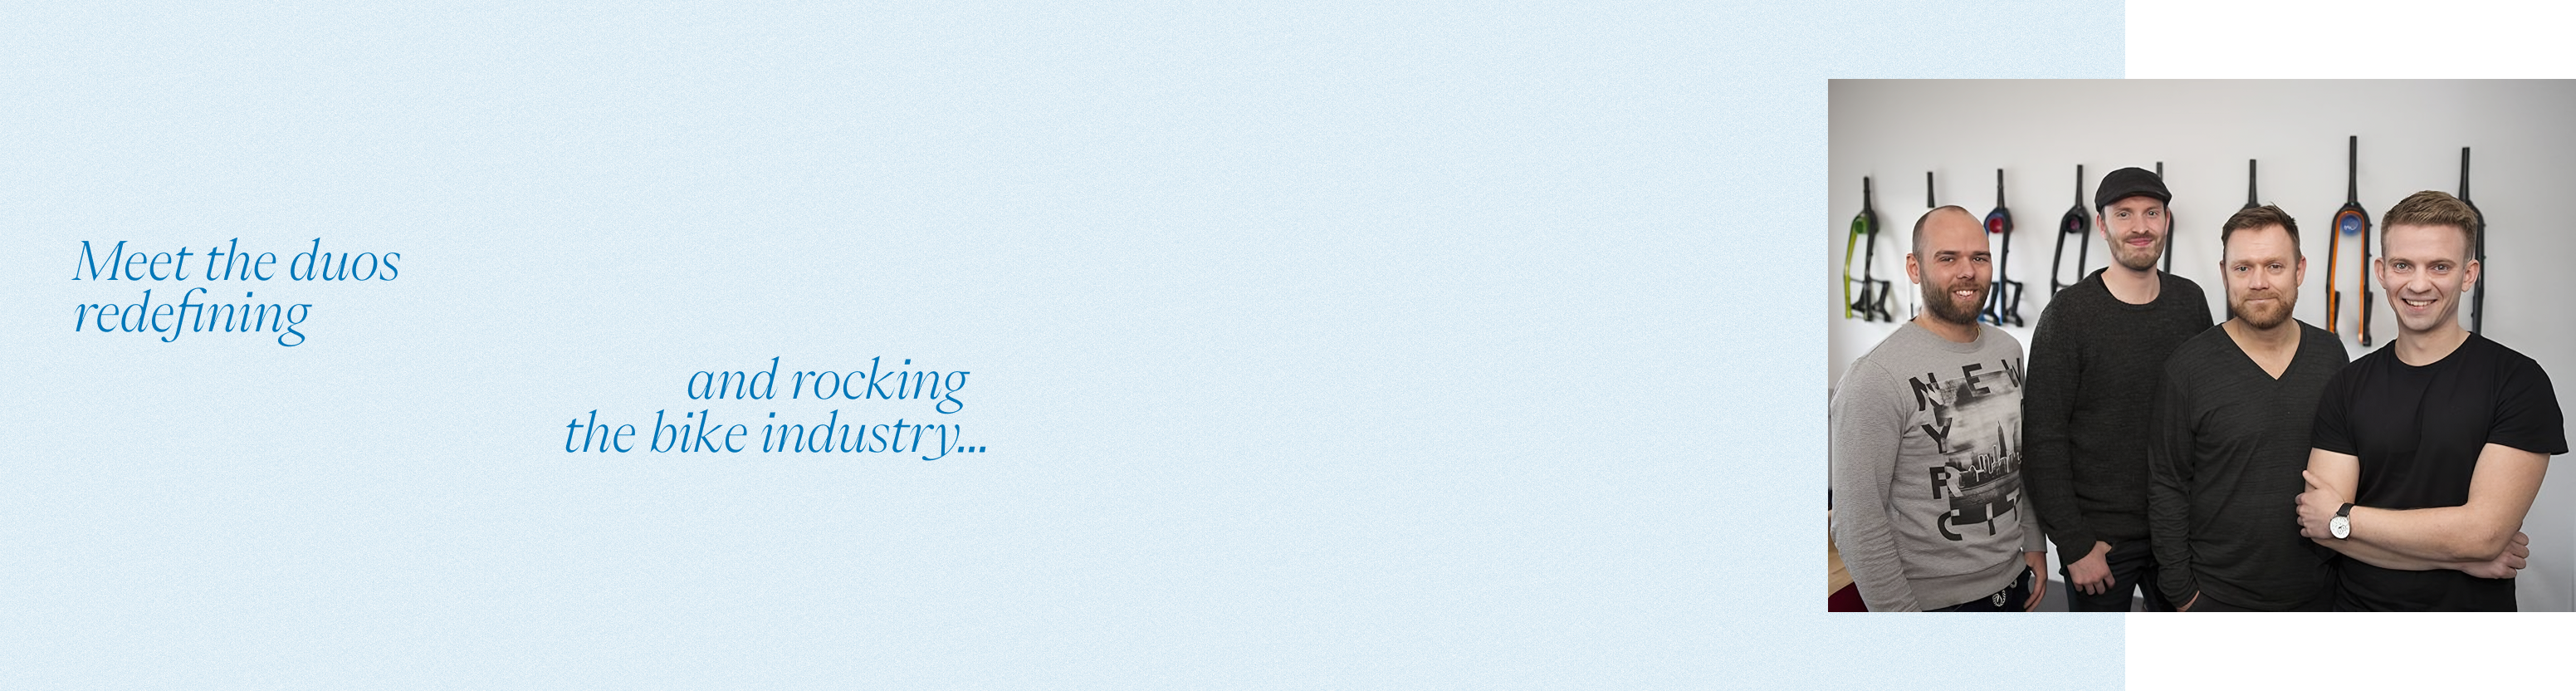
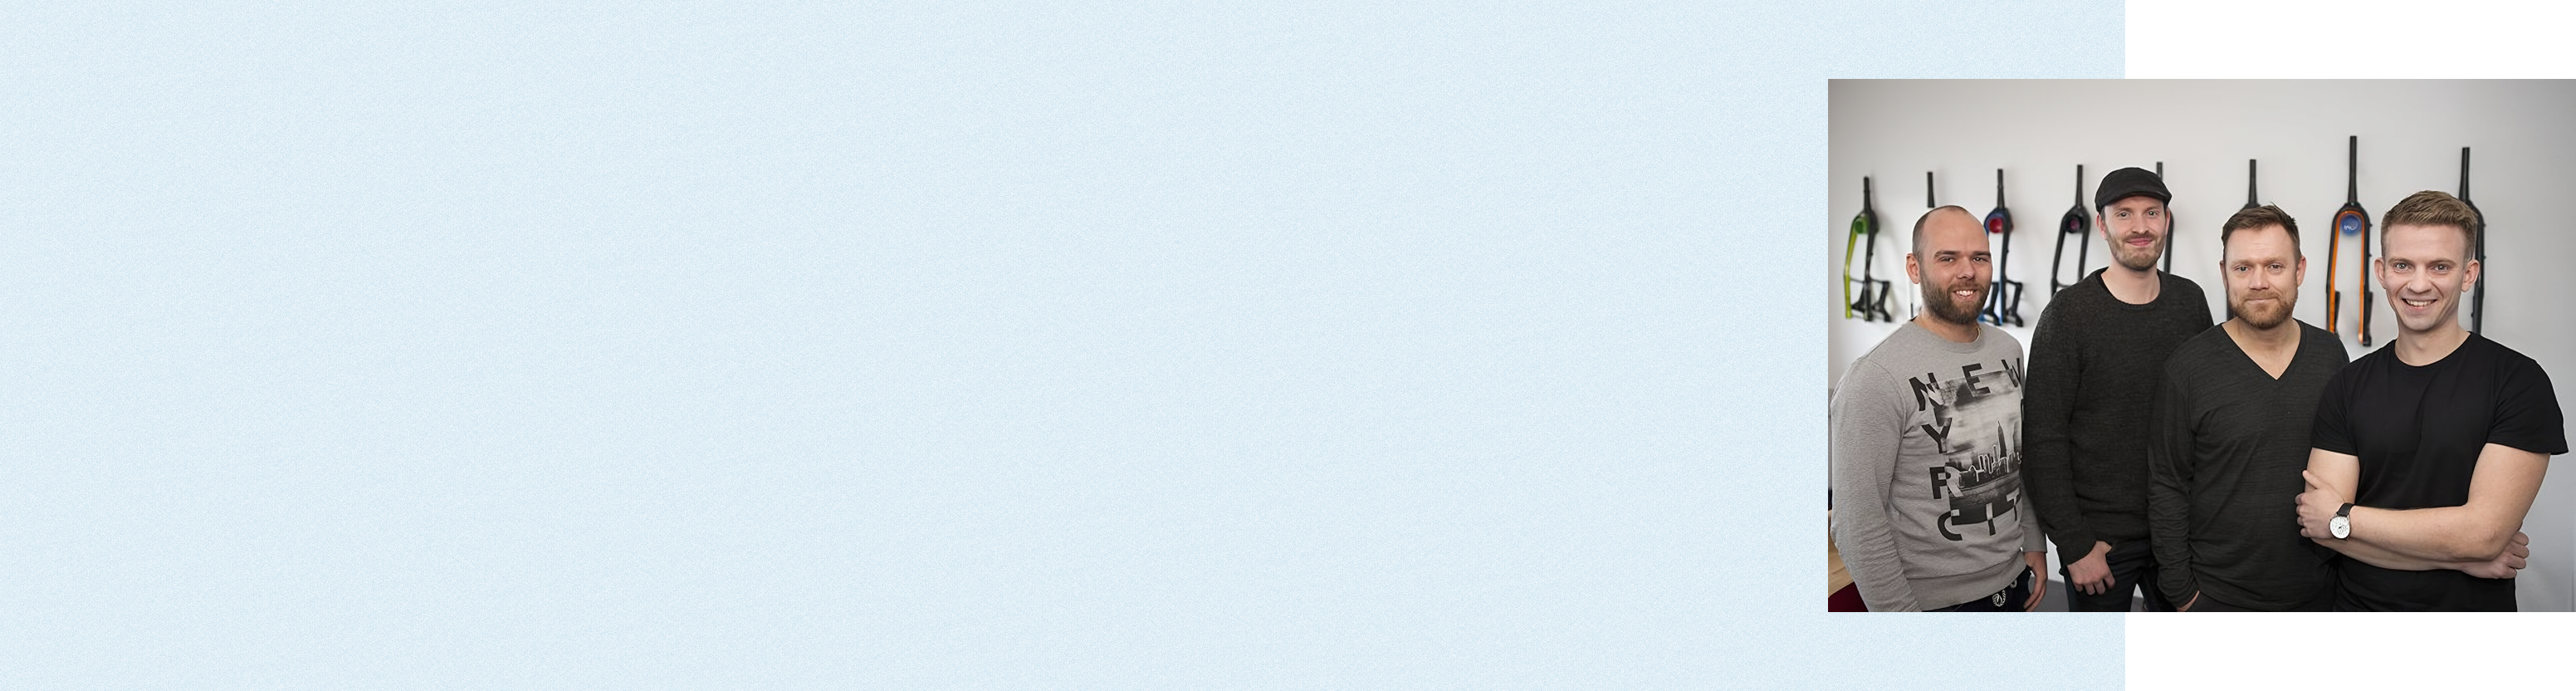
animations for elja

Changed region(s): [[0.2166, 0.5312, 0.3713, 0.6562], [0.0309, 0.3438, 0.1547, 0.4062], [0.0309, 0.4375, 0.1238, 0.5]]

diff --git a/src/css/projectLaufElja.css b/src/css/projectLaufElja.css
@@ -18,16 +18,22 @@
 
 #detail-close {
   position: fixed;
-  top: 14px;
-  right: 20px;
-  font-family: 'Georgia', serif;
-  font-size: 60px;
-  color: #888;
+  top: calc(1.5rem + 40px);
+  left: calc(2rem + 23px);
+  z-index: 1001;
+  color: #C3FA95;
   background: transparent;
   border: none;
   cursor: pointer;
-  z-index: 800;
+  font-size: 4em;
   line-height: 1;
+  padding: 4px 8px;
+  transition: color 0.2s ease, background 0.2s ease;
+}
+
+#detail-close:hover {
+  color: #000;
+  background: #FFCDA9;
 }
 
 /* ─── Base Panel ─────────────────────────────────────────────────────────────── */
@@ -97,6 +103,8 @@
   flex-shrink: 0;
   height: 100%;
   overflow: hidden;
+  position: relative;
+  z-index: 1;
 }
 
 .dp-hero-side img {
@@ -118,7 +126,7 @@
 }
 
 .dp-hero-text {
-  width: 33.68vw;
+  width: 33.95vw;
   flex-shrink: 0;
   background: var(--color-white);
   padding: 80px 64px;
@@ -126,6 +134,8 @@
   flex-direction: column;
   justify-content: center;
   color: #0277B8;
+  position: relative;
+  z-index: 1;
 }
 
 .dp-hero-year {
@@ -146,6 +156,7 @@
   flex-shrink: 0;
   height: 100%;
   position: relative;
+  z-index: 1;
   background: #ffffff;
 }
 
@@ -172,8 +183,8 @@
 
 .dp-hero-bottom {
   position: absolute;
-  top: 50%;
-  left: 50%;
+  top: calc(50% + 10px);
+  left: calc(50% - 180px);
   transform: translate(-50%, -50%);
   z-index: 1;
   color: var(--color-white);
@@ -181,11 +192,10 @@
   flex-direction: column;
   align-items: flex-start;
   gap: 24px;
-  width: max-content;
 }
 
 .dp-hero-title {
-  font-size: 64px;
+  font-size: 74px;
   line-height: 1.1;
   display: flex;
   flex-direction: column;
@@ -194,29 +204,27 @@
 .dp-hero-title-line {
   display: block;
   padding-left: 50px;
+  white-space: nowrap;
 }
 
 .dp-hero-title-line--2 {
-  padding-left: 130px;
+  padding-left: 205px;
 }
 
 .dp-hero-title-line--3 {
-  padding-left: 160px;
+  padding-left: 565px;
 }
 
 .dp-hero-credit--indent {
-  padding-left: 240px;
+  padding-left: 565px;
 }
 
 .dp-hero-credit {
-  font-family: 'Switzer', sans-serif;
-  font-size: 13px;
   color: rgba(255,255,255,0.85);
-  line-height: 1.6;
-  text-align: left;
-  flex-shrink: 0;
-  max-width: 270px;
-  padding-bottom: 4px;
+  white-space: nowrap;
+  font-family: 'Switzer', sans-serif;
+  font-weight: 400;
+  font-size: 32px;
 }
 
 /* ─── Panel 2: Founders ──────────────────────────────────────────────────────── */
@@ -464,6 +472,48 @@
   max-width: 437px;
 }
 
+/* ─── Cycling3 portrait text overlay ────────────────────────────────────────── */
+.dp-cycling3-text {
+  position: absolute;
+  top: 50%;
+  left: 50%;
+  transform: translate(calc(-50% - 100px), -50%);
+  width: 80%;
+  display: flex;
+  flex-direction: row;
+  align-items: center;
+  gap: 48px;
+  pointer-events: none;
+}
+
+.dp-guy {
+  height: 90vh;
+  width: auto;
+  flex-shrink: 0;
+  display: block;
+  opacity: 0;
+  margin-top: 80px;
+}
+
+.dp-guy1 {
+  margin-left: -150px;
+}
+
+.dp-cycling3-left {
+  color: #0277B8;
+  text-align: left;
+  font-size: 48px;
+  margin: 0;
+}
+
+.dp-cycling3-right {
+  color: #0277B8;
+  text-align: right;
+  font-size: 48px;
+  margin: 0;
+  margin-left: -270px;
+}
+
 /* ─── Generic image panels ───────────────────────────────────────────────────── */
 .dp-panels-group {
   display: flex;
@@ -520,6 +570,28 @@
   line-height: 1.2;
   font-style: italic;
   font-weight: 300;
+}
+
+.dp-next-project {
+  position: absolute;
+  bottom: 32px;
+  right: 32px;
+  font-family: 'Steps-Mono', 'Courier New', monospace;
+  font-size: 18px;
+  letter-spacing: 0.1em;
+  color: var(--color-charcoal);
+  background: var(--color-white);
+  text-decoration: none;
+  border: 2px solid var(--color-charcoal);
+  padding: 5px 21px;
+  display: inline-block;
+  transition: background 0.2s ease, color 0.2s ease, border-color 0.2s ease;
+}
+
+.dp-next-project:hover {
+  background: #FFCDA9;
+  color: var(--color-charcoal);
+  border-color: var(--color-charcoal);
 }
 
 /* ─── Detail Scroll Indicator ───────────────────────────────────────────────── */

diff --git a/src/js/projectLaufElja.js b/src/js/projectLaufElja.js
@@ -4,13 +4,67 @@
   const detailClose   = document.getElementById('detail-close');
   const detailNavFill = document.getElementById('detailNavFill');
   const track         = laufDetail.querySelector('.detail-track');
+  const heroMain      = laufDetail.querySelector('.dp-hero-main');
+  const blueNoiseEl   = laufDetail.querySelector('.dp-blue-noise-quote');
+  let blueNoiseOffset = null;
 
   track.scrollLeft = 0;
   gsap.fromTo(laufDetail, { opacity: 0 }, { opacity: 1, duration: 0.35 });
 
+  /* ─── Typewriter effect ─────────────────────────────────────────────────── */
+  function typewriter(el, speed) {
+    if (el.dataset.typed) return;
+    el.dataset.typed = 'true';
+
+    const walker = document.createTreeWalker(el, NodeFilter.SHOW_TEXT);
+    const textNodes = [];
+    let node;
+    while ((node = walker.nextNode())) {
+      textNodes.push({ node, full: node.textContent });
+      node.textContent = '';
+    }
+
+    let ni = 0, ci = 0;
+    function tick() {
+      if (ni >= textNodes.length) return;
+      const { node, full } = textNodes[ni];
+      if (ci < full.length) {
+        node.textContent += full[ci++];
+        setTimeout(tick, speed);
+      } else {
+        ni++; ci = 0;
+        tick();
+      }
+    }
+    tick();
+  }
+
+  const typeTargets = document.querySelectorAll(
+    '.dp-hero-title, .dp-hero-credit, .dp-origin-q, .dp-noise-q, .dp-blue-noise-heading, .dp-long-noise-q, .dp-cycling3-left, .dp-cycling3-right'
+  );
+
+  const observer = new IntersectionObserver((entries) => {
+    entries.forEach(entry => {
+      if (entry.isIntersecting) {
+        typewriter(entry.target, 18);
+        observer.unobserve(entry.target);
+      }
+    });
+  }, { threshold: 0.1 });
+
+  typeTargets.forEach(el => observer.observe(el));
+
   track.addEventListener('scroll', () => {
-    const ratio = track.scrollLeft / (track.scrollWidth - track.clientWidth);
+    const sl = track.scrollLeft;
+    const ratio = sl / (track.scrollWidth - track.clientWidth);
     detailNavFill.style.width = (ratio * 100) + '%';
+    heroMain.style.transform = `translateX(${sl}px)`;
+
+    if (blueNoiseOffset === null) {
+      blueNoiseOffset = blueNoiseEl.getBoundingClientRect().left + sl;
+    }
+    const pinAmount = Math.max(0, sl - blueNoiseOffset);
+    blueNoiseEl.style.transform = `translateX(${pinAmount}px)`;
   });
 
   detailClose.addEventListener('click', () => {
@@ -27,4 +81,21 @@
     e.preventDefault();
     track.scrollLeft += e.deltaY * 1.4;
   }, { passive: false });
+
+  /* ─── Guy slide-in animations ───────────────────────────────────────────── */
+  const guy1El = document.querySelector('.dp-guy1');
+  const guy2El = document.querySelector('.dp-guy2');
+  const rightTextDelay = document.querySelector('.dp-cycling3-right').textContent.length * 18 / 1000;
+
+  const guyObserver = new IntersectionObserver((entries) => {
+    entries.forEach(entry => {
+      if (entry.isIntersecting) {
+        gsap.fromTo(guy1El, { x: 250, opacity: 0 }, { x: 0, opacity: 1, duration: 0.9, ease: 'power2.out', delay: rightTextDelay * 2 });
+        gsap.fromTo(guy2El, { x: 250, opacity: 0 }, { x: 0, opacity: 1, duration: 0.9, ease: 'power2.out', delay: rightTextDelay * 2 + 0.3 });
+        guyObserver.disconnect();
+      }
+    });
+  }, { threshold: 0.5 });
+
+  guyObserver.observe(document.querySelector('.dp-cycling3-right'));
 })();

diff --git a/projectLaufElja.html b/projectLaufElja.html
@@ -21,7 +21,7 @@
 </nav>
 
 <!-- Lauf Elja detail close button -->
-<button id="detail-close">&#x00D7;</button>
+<button id="detail-close" class="paragraph-3">&lt;</button>
 
 <!-- Persistent scroll indicator for detail view -->
 <div id="detail-nav">
@@ -49,7 +49,7 @@
             <span class="dp-hero-title-line dp-hero-title-line--2">technical engineering</span>
             <span class="dp-hero-title-line dp-hero-title-line--3">and performance</span>
           </h1>
-          <p class="dp-hero-credit dp-hero-credit--indent">Elja by Lauf Cycles wins Product of the<br>Year at the 2025 Icelandic Awards</p>
+          <p class="paragraph-4 dp-hero-credit dp-hero-credit--indent">Elja by Lauf Cycles wins Product of the<br>Year at the 2025 Icelandic Awards</p>
         </div>
       </div>
       <div class="dp-hero-side">
@@ -60,6 +60,12 @@
       </div>
       <div class="dp-hero-portrait">
         <img src="src/img/lauf_elja_page/lauf_cycling3.png" alt="">
+        <div class="dp-cycling3-text">
+          <h2 class="heading-2 dp-cycling3-left">Meet the duos<br>redefining</h2>
+          <img class="dp-guy dp-guy1" src="src/img/lauf_elja_page/guy1.png" alt="">
+          <img class="dp-guy dp-guy2" src="src/img/lauf_elja_page/guy2.png" alt="">
+          <h2 class="heading-2 dp-cycling3-right">and rocking<br>the bike industry...</h2>
+        </div>
         <div class="dp-hero-portrait-text">
           <p class="paragraph-1">Founded in 2011 out from a garage by two lifelong friends, Benedikt Skúlason and Guðberg Björnsson, their journey started based on their love for biking in the Icelandic natural lands and driven by a dream to create better bikes. Lauf Cycles create bikes with the Icelandic environment condition in mind, where the riding experience is the pinnacle of their work. The co-founders are driven by the desire to reinvent for the better and leave a lasting impact in the bike industry.</p>
           <p class="paragraph-1">Benedikt Skúlason holds a Master's degree in engineering from Manhattan, Columbia, USA. He is also a biking enthusiast and a weekend XC MTB racer. Guðberg Björnsson is a product designer.</p>
@@ -102,6 +108,7 @@
           <span class="heading-6 dp-long-noise-attr">[Benedikt Skúlason]</span>
           <blockquote class="heading-2 dp-long-noise-q"><mark class="dp-mark">"Our cycling passion is contagious and we hope riders would feel it</mark> too when riding with us. On our bikes, you would only hear the beautiful sounds of nature and enjoy fresh air as you explore the Icelandic landscapes."</blockquote>
         </div>
+        <a href="#" class="dp-next-project">[ See Next Project ]</a>
       </div>
     </div>
 